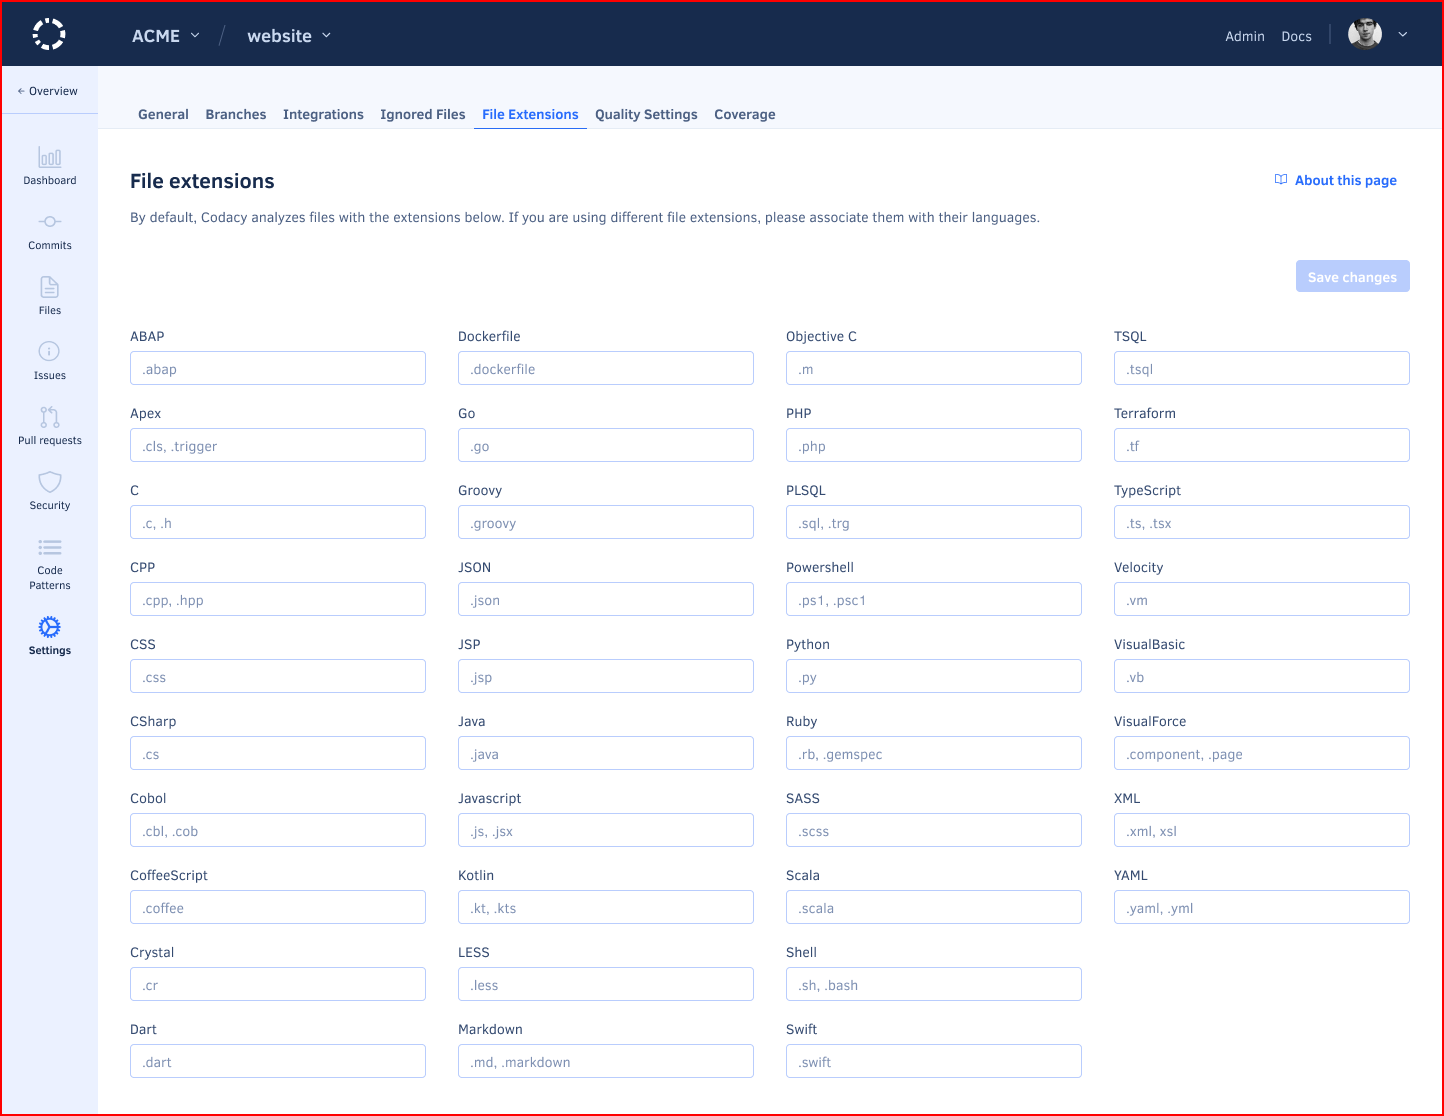
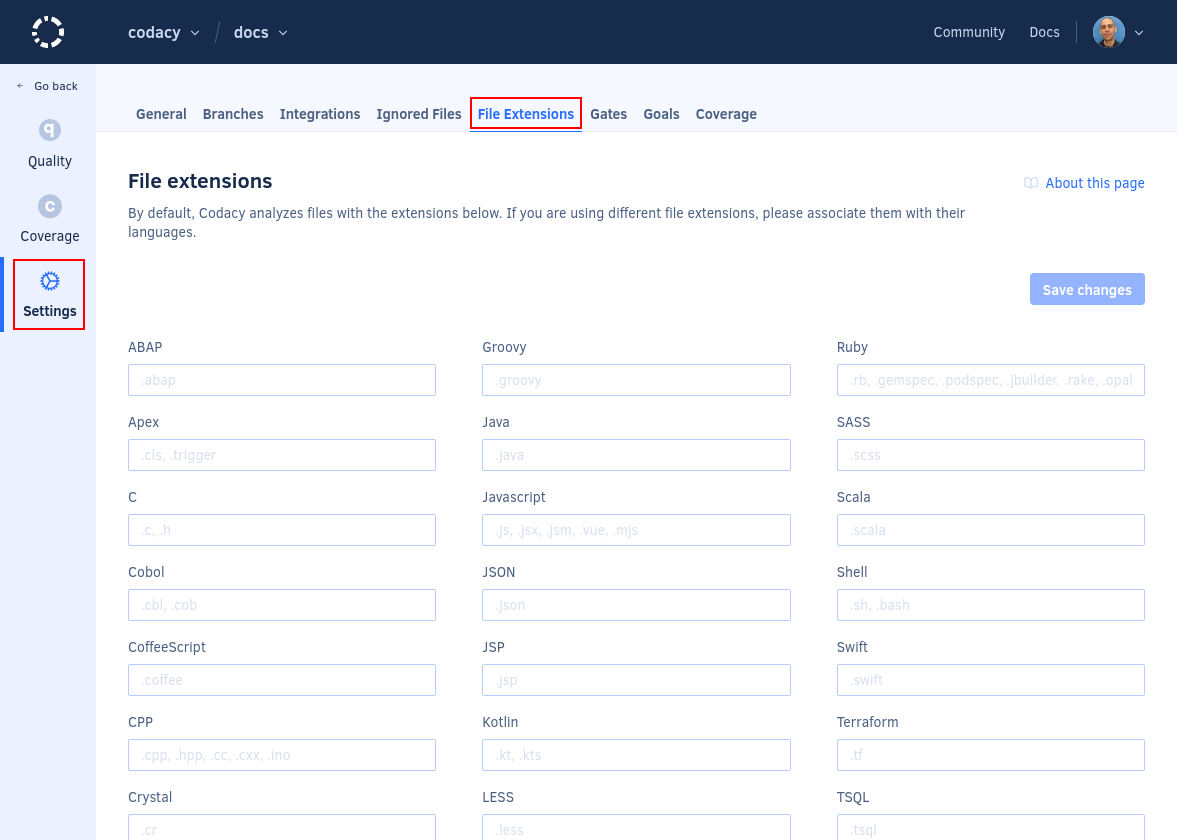
feat: Update screenshot

diff --git a/docs/repositories-configure/file-extensions.md b/docs/repositories-configure/file-extensions.md
@@ -8,13 +8,13 @@ If your repository has source files with unrecognized extensions, you can config
 
 1.  Go to your repository's **Settings**, **File Extensions**.
 
-    ![Configuring file extensions](images/file-extensions.png)<!--TODO Update-->
+    ![Configuring file extensions](images/file-extensions.png)
 
 1.  Add the extensions you want to be recognized for each language.
 
 1.  Click **Save** to update your file extension settings.
 
-    <!--TODO Check if https://codacy.atlassian.net/browse/PLUTO-466 is done-->
+    <!--TODO Check if https://codacy.atlassian.mknet/browse/PLUTO-466 is done-->
     The updated settings will be used on the next analysis, but you can click **reanalyze the latest commit of your branches now** on the notification that appears at the bottom of the page to trigger an analysis immediately.
 
     ![Analyze now](images/file-extensions-analyze.png)
